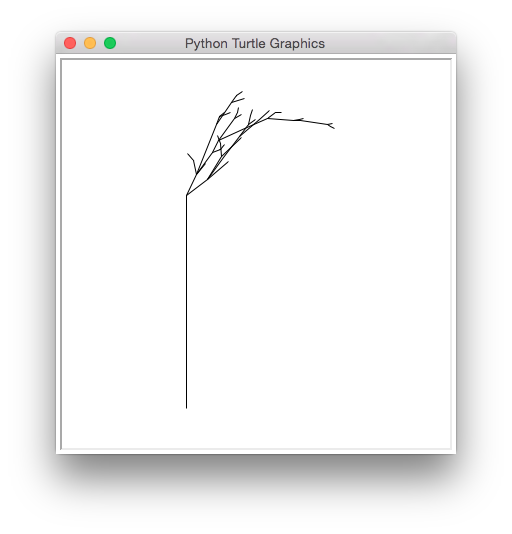
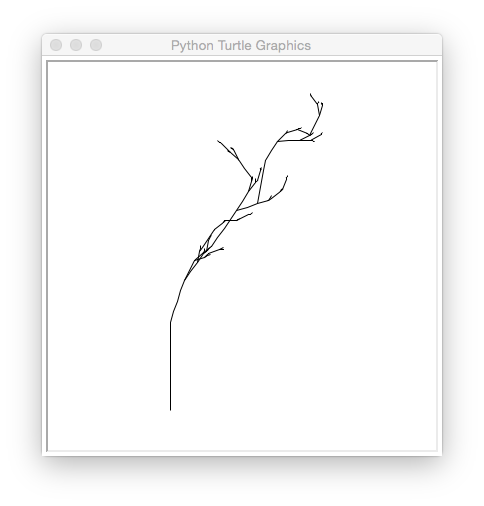
changed pics

diff --git a/test2.py b/test2.py
@@ -3,7 +3,7 @@ from random import choice
 from numpy import arange
 from numpy.random import normal
 
-rules = {'1': '11', '0': lambda: choice(('1[0[0]]0', '0[0]'))}
+rules = {'1': '11', '0': lambda: choice(('1[0[0]]0', '1[0[0[0]]]'))}
 seq = eval_rules(rules, niter=4, init='0')
 draw_rules = {'1': lambda **kw: kw['t'].forward(kw['step']), 
 	'[': lambda **kw: kw['t'].left(normal(kw['depth']*0.1, 20)), \
